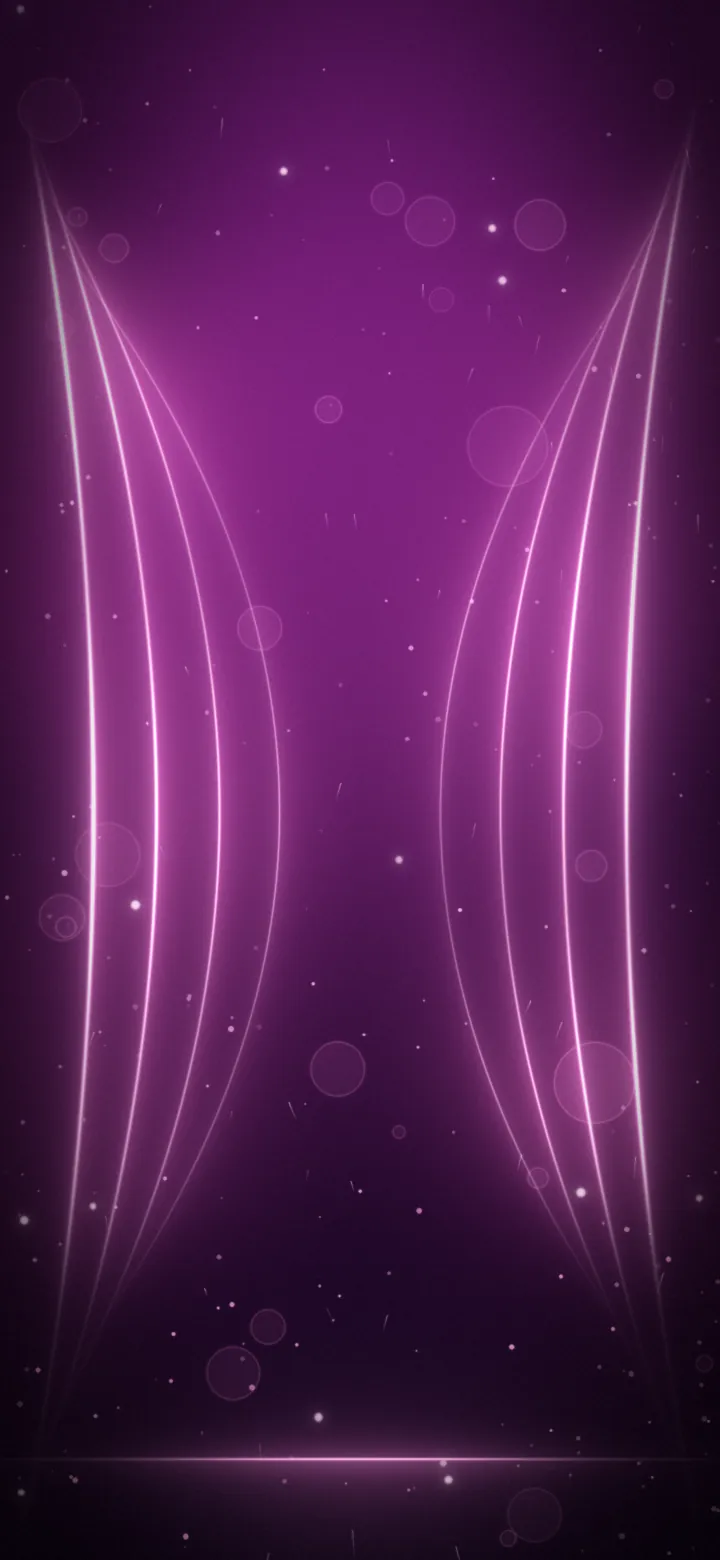
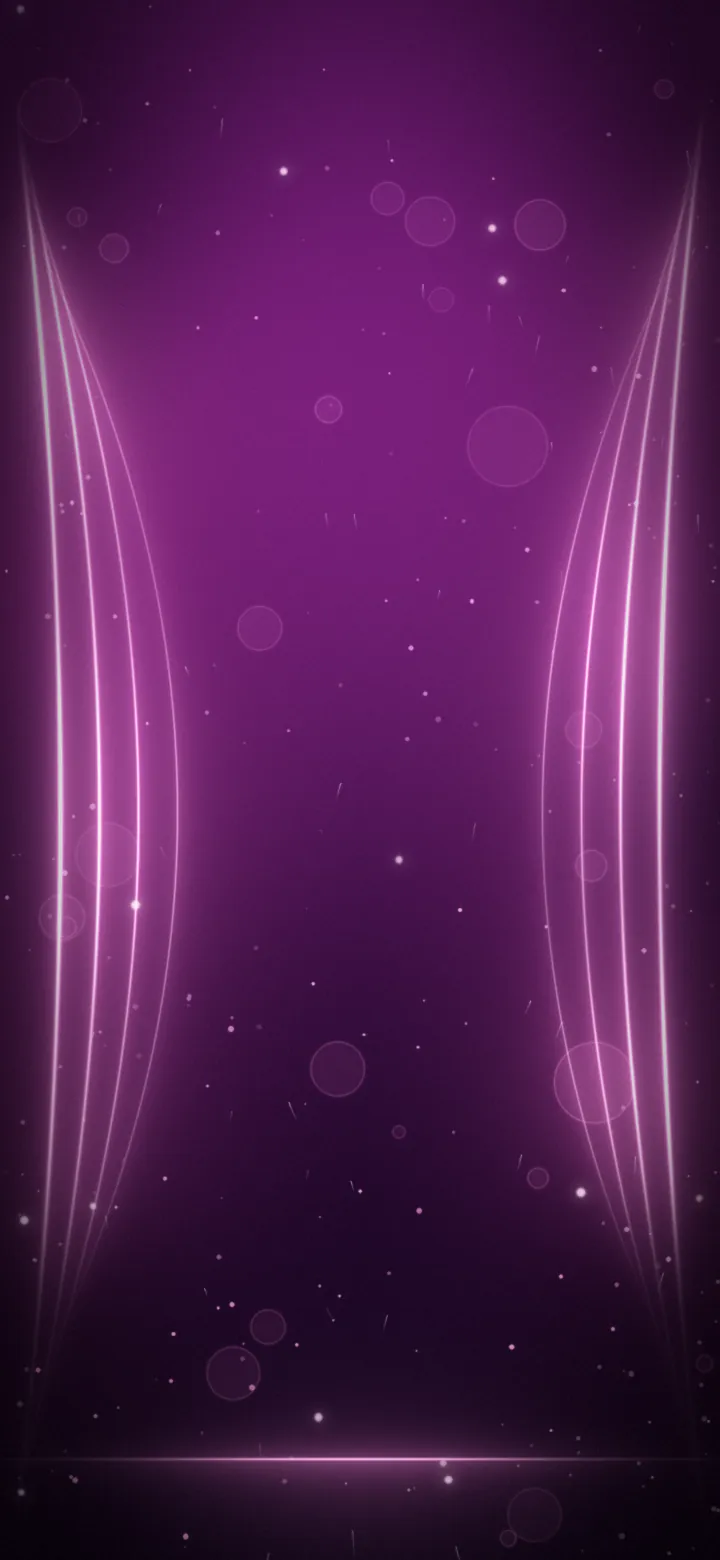
Game backgrounds: the light arcs hug the screen edges like on the Home screen (work in progress, dev branch only)
The arcs sat too far into the screen and showed behind buttons and text on the
games whose controls are see-through; they now follow the edges, as in the Home
screen's art, and leave the middle calm. All 18 backgrounds re-rendered.

Claude-Session: https://claude.ai/code/session_01U6syegrAo7nHMVcBiwwB5s

Changed region(s): [[0.0306, 0.1231, 0.4583, 0.8308], [0.55, 0.1231, 0.9778, 0.8308]]

diff --git a/mobile/scripts/backdrops/make-backdrops.py b/mobile/scripts/backdrops/make-backdrops.py
@@ -132,7 +132,8 @@ def arcs(c, t):
     cy = c.h * 0.52
     sc = c.h / 1560.0 if c.w > c.h else 1.0
     # (x of the arc at its middle, half-length, strength, line width)
-    specs = [(62 * sc * 1.5, 820 * sc, 1.00, 2.4), (104 * sc * 1.5, 760 * sc, 0.80, 1.9), (146 * sc * 1.5, 700 * sc, 0.58, 1.5), (186 * sc * 1.5, 640 * sc, 0.36, 1.2)]
+    # the arcs hug the screen edges (as on the Home screen), so they never sit behind a game's buttons and text
+    specs = [(40 * sc * 1.5, 820 * sc, 1.00, 2.4), (66 * sc * 1.5, 760 * sc, 0.80, 1.9), (92 * sc * 1.5, 700 * sc, 0.58, 1.5), (118 * sc * 1.5, 640 * sc, 0.36, 1.2)]
     for side in (0, 1):
         for x0, half, st, wd in specs:
             k = x0 / (half ** 2)
@@ -151,9 +152,9 @@ def arcs(c, t):
             layer += inten[..., None] * (hot * core[..., None] + acc * (1 - core[..., None]))
             # light spilling inwards from the line (stronger on its inner side)
             inner = np.clip(xx - xc, 0, None)
-            wash += (np.exp(-inner / 70.0) * along * st * (xx >= xc)).astype(np.float32)
+            wash += (np.exp(-inner / 46.0) * along * st * (xx >= xc)).astype(np.float32)
     c.screen(layer * 0.95)
-    c.add(np.clip(wash, 0, 1.6) * 0.5, rgb(t["accent2"]), 0.16)
+    c.add(np.clip(wash, 0, 1.6) * 0.5, rgb(t["accent2"]), 0.12)
 
 
 def disc_layer(c, pts, soft=0.8, ss=2):
